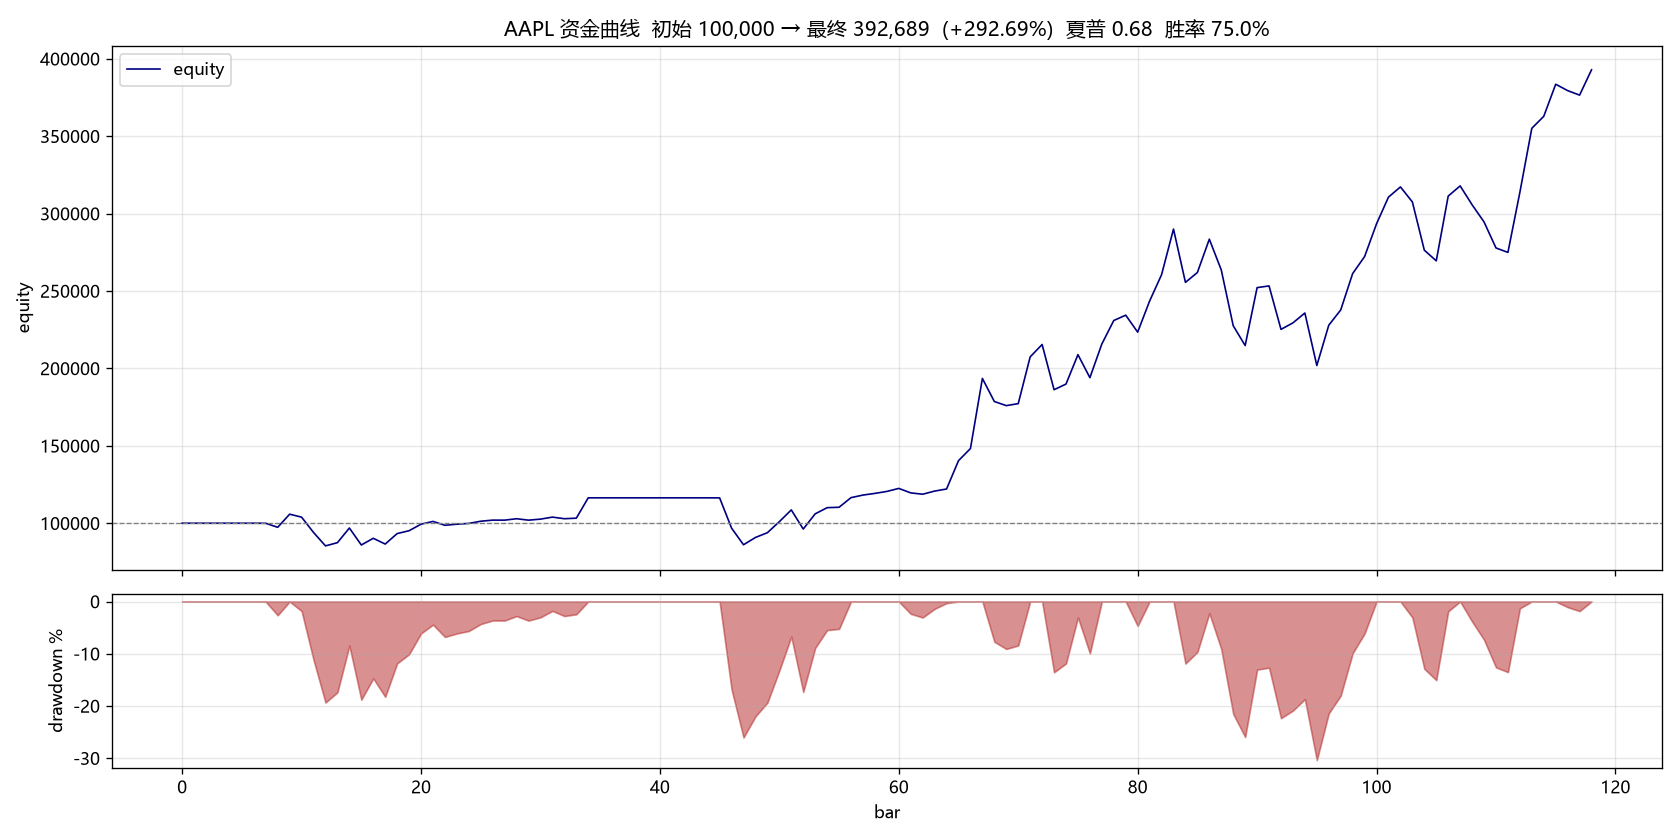
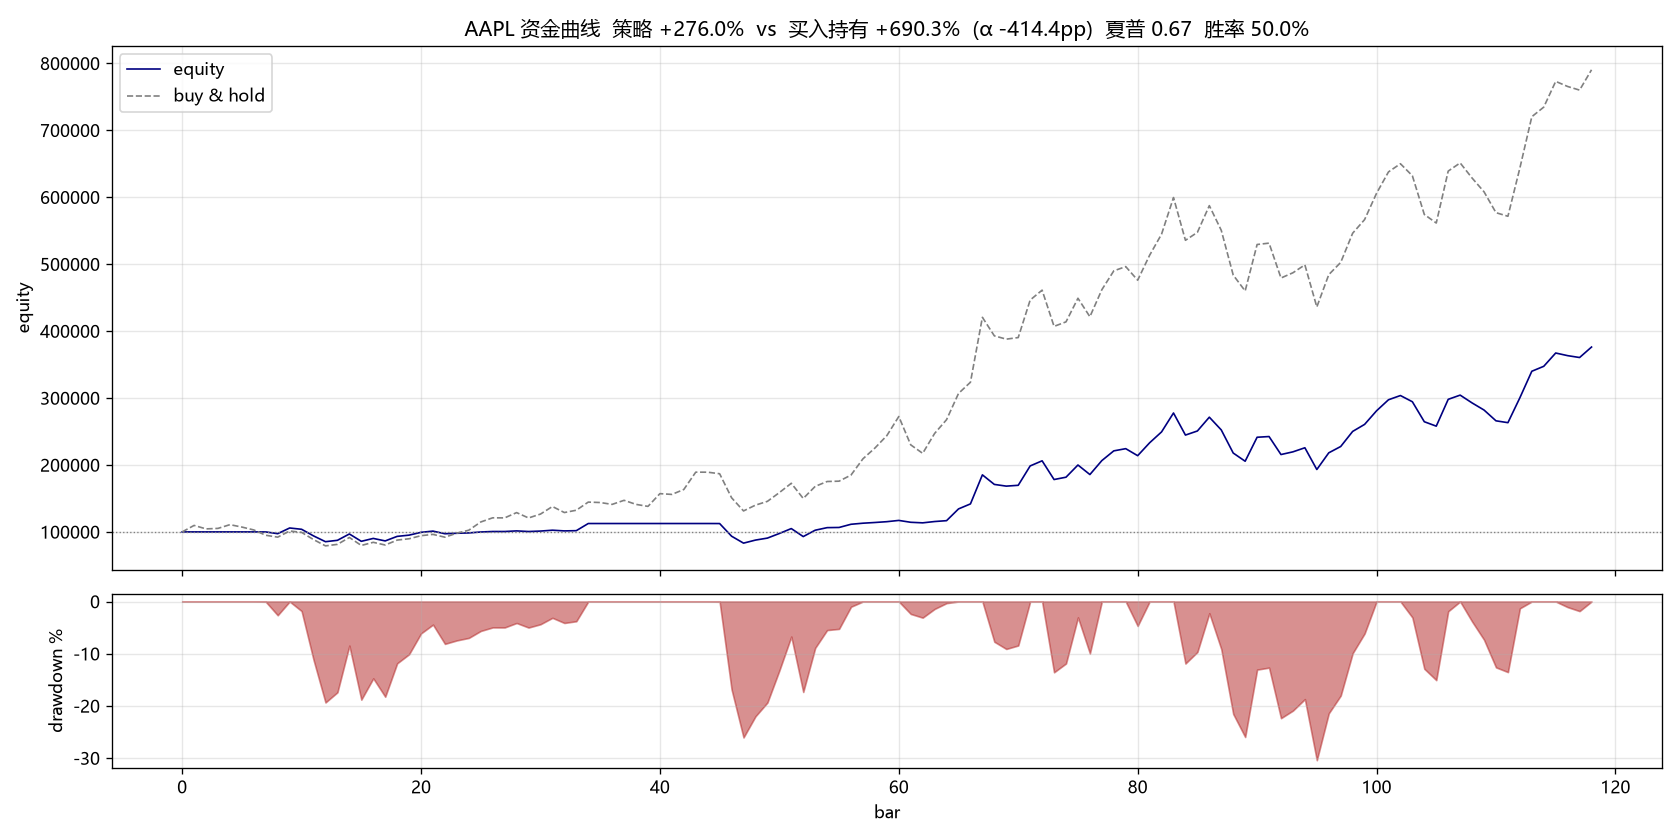
Reframe README from profit-showcase to research/engineering focus; fix stale (pre-fix) preview numbers

diff --git a/README.md b/README.md
@@ -2,11 +2,13 @@
 
 [**English**](./README.md) | [中文](./README_zh.md)
 
-**A multi-market quantitative-trading system built on Chan theory (缠论 / "the mathematical principles of market philosophy").**
+**A research & engineering implementation of Chan theory (缠论 / "the mathematical principles of market philosophy") — a complete signal engine plus an honest, multi-market backtest harness.**
 
-YUE_Chan turns Chan theory from a chart-marking hobby into a backtestable, live-tradable system. It implements a full pipeline — fractal → stroke → segment → center → divergence → three buy/sell points — with multi-timeframe analysis, a set of ten independently toggleable "level/trend discipline" gates, a long/short strategy engine, backtesting across US / HK / A-share / crypto (each with its own market rules applied automatically), and broker execution bridges. Pure Python, no commercial market-data terminal required.
+YUE_Chan is a study of how far Chan theory can be made fully algorithmic. It implements the entire pipeline — fractal → stroke → segment → center → divergence → three buy/sell points — with multi-timeframe analysis, ten independently toggleable "level/trend discipline" gates, a long/short strategy engine, and a backtester across US / HK / A-share / crypto that applies each market's rules and **reports α against a buy-and-hold benchmark**. Pure Python, no commercial market-data terminal required.
 
 > This is a research / educational project. It is **not** investment advice. See [Disclaimer](#disclaimer).
+
+> **Honest positioning (this is a research project, not a track record).** The framework is a "sit-out-when-uncertain" timing system. Its documented finding ([RESEARCH.md](./RESEARCH.md) §17): in a sustained bull market it **underperforms buy-and-hold** (e.g. AAPL 2015–2024: strategy +276% vs hold +690%), and its value is **drawdown control / bear-market protection**, not alpha. The backtest is built to *measure* this honestly — no look-ahead, α-vs-hold reported on every run — not to showcase a flattering number.
 
 ---
 
@@ -16,7 +18,7 @@ YUE_Chan turns Chan theory from a chart-marking hobby into a backtestable, live-
 
 ![Chan structure](./assets/aapl_structure.png)
 
-**Backtest equity curve** — AAPL 2015–2024, multi-level (month > week > day): +292.69% total, Sharpe 0.68, 75% win rate; drawdown below.
+**Backtest vs buy-and-hold** — AAPL 2015–2024, multi-level (month > week > day): strategy **+276%** vs buy-and-hold **+690%** (α −414pp; the gray dashed line is hold). Shown honestly — a risk-off timing system gives up return in a strong bull; its edge is the shallower drawdown.
 
 ![Equity curve and drawdown](./assets/aapl_equity.png)
 
@@ -57,7 +59,7 @@ YUE_Chan goes further:
 
 - **Faithful, algorithmic Chan theory.** Every algorithmically-expressible lesson of the 108-lesson original text is implemented; the [implementation status matrix](./IMPLEMENTATION_STATUS.md) maps each lesson to its code (Chinese).
 - **Ten discipline gates, each independently switchable** — so every layer's contribution can be measured by ablation, not asserted.
-- **Empirical, honest reporting.** Divergence criteria, why shorting fails on some markets, flip-vs-flat, stop-loss and level-gating behaviour are all backed by ablation experiments in [RESEARCH.md](./RESEARCH.md) (Chinese); result artifacts live in [`results/`](./results).
+- **Empirical, honest reporting.** Every backtest prints **α vs a buy-and-hold benchmark** and overlays the hold curve, so performance is never judged in a vacuum. Divergence criteria, why shorting fails on some markets, flip-vs-flat, stop-loss and level-gating behaviour are backed by ablation experiments in [RESEARCH.md](./RESEARCH.md) (Chinese); §17 records the honest headline: a risk-off Chan timing system **loses to buy-and-hold in bulls, wins by losing less in bears**. Result artifacts live in [`results/`](./results).
 - **Offline self-check.** `python Script/SmokeOffline.py` runs the whole pipeline on synthetic data (no network) — run it after any change.
 
 ## Architecture

diff --git a/README_zh.md b/README_zh.md
@@ -2,9 +2,11 @@
 
 [English](./README.md) | **中文**
 
-**基于缠中说禅《市场哲学的数学原理》的多市场缠论量化系统**
+**缠论（《市场哲学的数学原理》）的研究与工程实现 —— 完整的信号引擎 + 诚实的多市场回测框架**
 
-完整实现缠论全部可算法化内容：分型 → 笔 → 线段 → 中枢 → 背驰 → 三类买卖点的计算引擎，日/周/月多级别联立，十层"级别/走势"操作纪律门控，多空双向策略引擎，美/港/A/加密四市场回测（自动施加各市场交易规则），以及券商实盘执行桥接。纯 Python，不依赖任何商业行情终端。
+本项目探索"缠论在多大程度上能被完全算法化"：完整实现分型 → 笔 → 线段 → 中枢 → 背驰 → 三类买卖点的计算引擎，日/周/月多级别联立，十层"级别/走势"操作纪律门控，多空双向策略引擎，美/港/A/加密四市场回测（自动施加各市场交易规则，并**报告相对买入持有的超额 α**），以及券商实盘执行桥接。纯 Python，不依赖任何商业行情终端。
+
+> **诚实定位（这是研究项目，不是业绩记录）。** 本框架是"不确定就空仓"的择时系统。核心结论（见 [RESEARCH.md](./RESEARCH.md) 第十七节）：在持续牛市里它**跑输买入持有**（如 AAPL 2015–2024：策略 +276% vs 持有 +690%），价值在**回撤控制 / 下跌市保护**，而非 alpha。回测被设计成**如实度量**这一点（无未来函数、每次运行都报 α vs 持有），而不是挑一个好看的数字来展示。
 
 - [快速上手指南](./quick_guide.md)
 - [实证研究笔记](./RESEARCH.md)：背驰口径、做空失效根因、反手/止损/级别门控、十层纪律的逐项消融对照实验——实验数据与结论在此文件，产物文件在 [`results/`](./results)
@@ -18,7 +20,7 @@
 
 ![缠论结构](./assets/aapl_structure.png)
 
-**回测资金曲线** — AAPL 2015–2024，多级别（月 > 周 > 日）：总收益 +292.69%、夏普 0.68、胜率 75%，下方为回撤。
+**回测 vs 买入持有** — AAPL 2015–2024，多级别（月 > 周 > 日）：策略 **+276%** vs 买入持有 **+690%**（α −414pp；图中灰虚线即买入持有）。如实呈现——"不确定就空仓"的择时系统在强牛市会让利，其优势是回撤更浅。
 
 ![资金曲线与回撤](./assets/aapl_equity.png)
 
